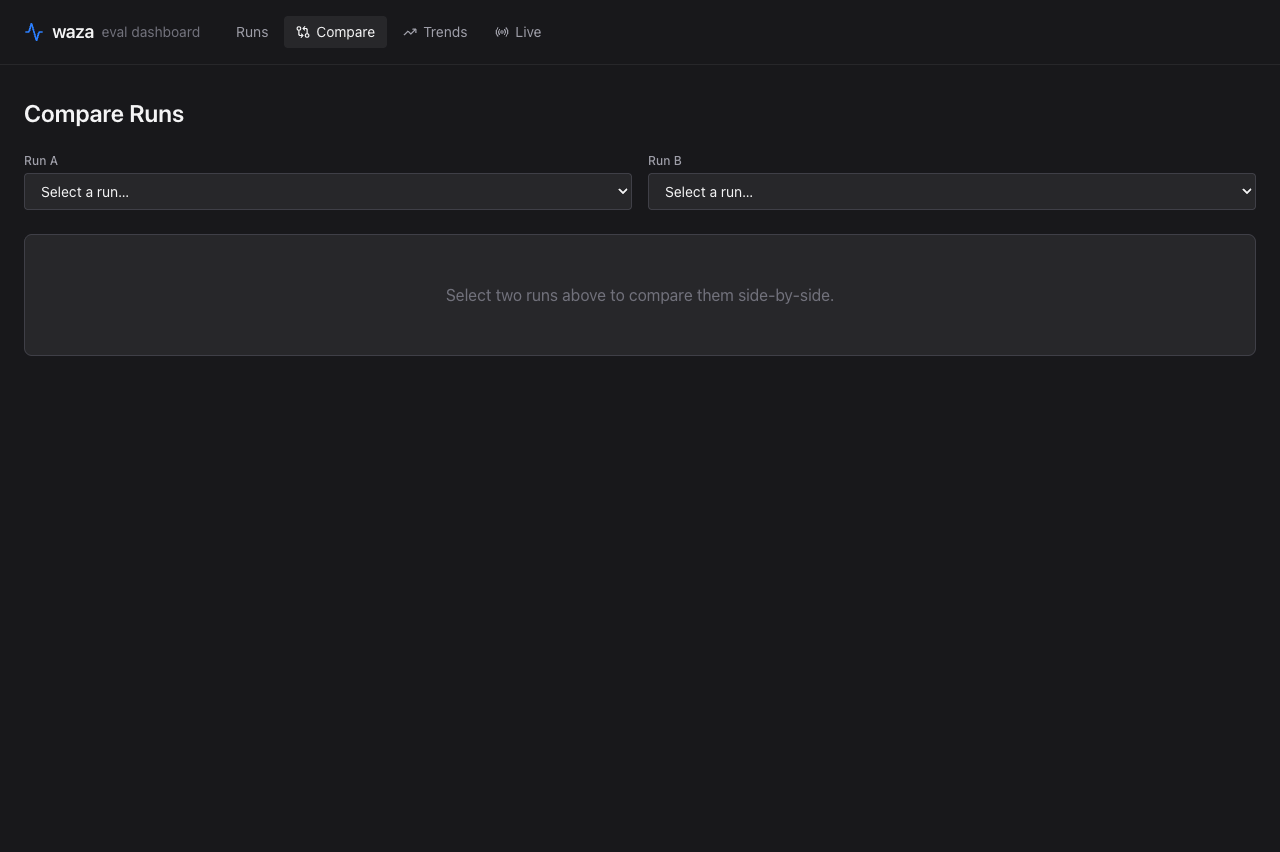
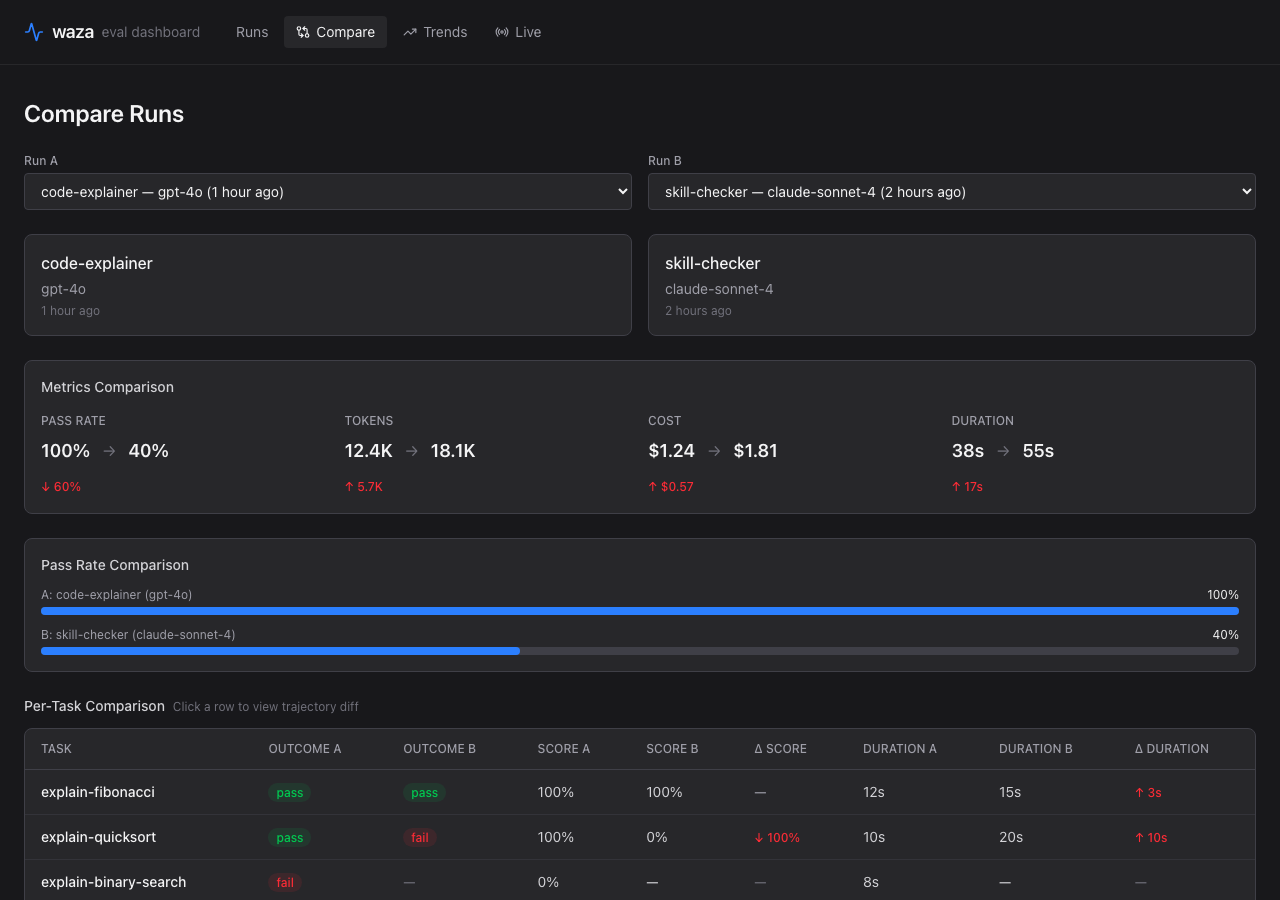
fix: update compare runs screenshot to show 2 selected runs
- Updated e2e screenshot spec to save to correct path (docs/images/explore/compare-runs.png)
- Added Metrics Comparison visibility check for render stability
- Increased viewport height to 900px to capture full compare view
- Screenshot now shows both runs selected with metrics, pass rate bars, and per-task table

diff --git a/web/e2e/screenshots.spec.ts b/web/e2e/screenshots.spec.ts
@@ -51,12 +51,16 @@ test.describe("Screenshots", () => {
     await selects.nth(0).selectOption("run-001");
     await selects.nth(1).selectOption("run-002");
 
-    // Wait for comparison table
+    // Wait for comparison table and metrics to fully render
     await expect(page.getByText("Per-Task Comparison")).toBeVisible();
     await expect(page.getByText("explain-fibonacci")).toBeVisible();
+    await expect(page.getByText("Metrics Comparison")).toBeVisible();
+
+    // Use taller viewport to capture run cards, metrics, and per-task table
+    await page.setViewportSize({ width: 1280, height: 900 });
 
     await page.screenshot({
-      path: "../docs/images/compare.png",
+      path: "../docs/images/explore/compare-runs.png",
       fullPage: false,
     });
   });
